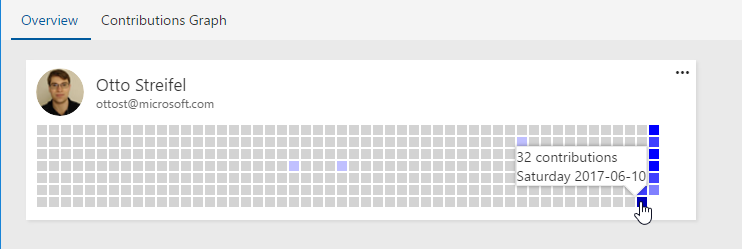
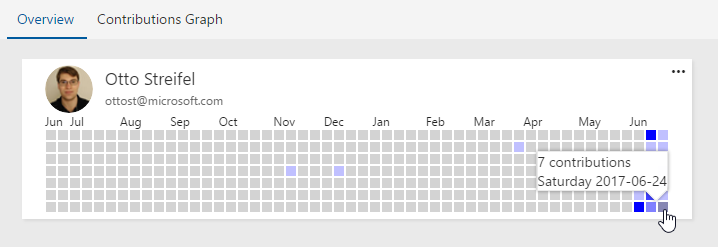
v1.5.2 Update screenshots

Changed region(s): [[0.0306, 0.2551, 0.9499, 0.9352], [0.0, 0.0567, 0.3064, 0.1134], [0.0, 0.1417, 0.1226, 0.17]]

diff --git a/details.md b/details.md
@@ -24,9 +24,6 @@ Click the selected day to show contributions for the whole year.
 
 Click that any day on the graph to show only the contribution details for that particular day
 
-## Planned
-- Validate and release for on premise installations (url formats in links expected to create issues)
-
 ## Version History
 (06/24/2017) v1.5.1 Usuability Updates
 - UI performance (lists and day selection)
